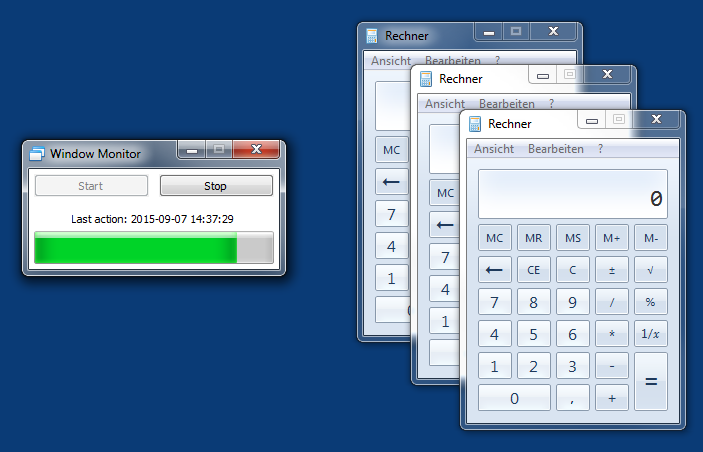
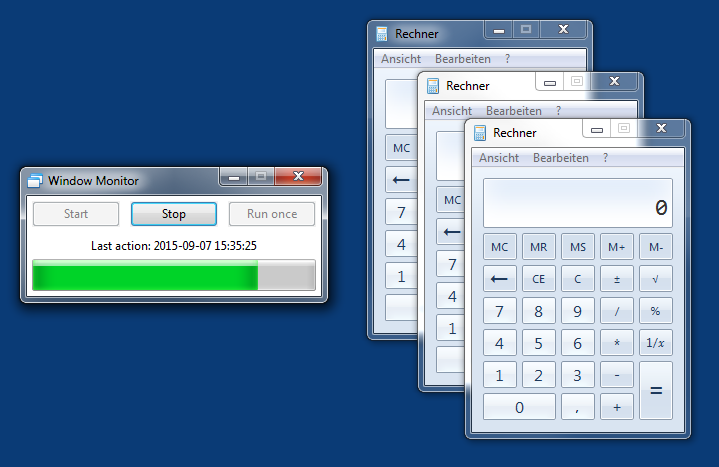
Added button to manually execute the process and window info script once

diff --git a/mainframe.py b/mainframe.py
@@ -38,10 +38,12 @@ class MainFrame(gui.MainFrame):
         # Bind the monitoring buttons.
         self.ButtonStartMonitoring.Bind(wx.EVT_BUTTON, self.start_monitoring)
         self.ButtonStopMonitoring.Bind(wx.EVT_BUTTON, self.stop_monitoring)
+        self.ButtonRunOnce.Bind(wx.EVT_BUTTON, self.run_once)
 
         # Enable/Disable monitoring buttons correctly.
         self.ButtonStartMonitoring.Enable(True)
         self.ButtonStopMonitoring.Enable(False)
+        self.ButtonRunOnce.Enable(True)
         self.DateTimeText.SetLabelText(u'Last action: -')
 
         # Determine if program is running compiled to *.exe/*.app or from Python interpreter.
@@ -64,6 +66,21 @@ class MainFrame(gui.MainFrame):
         self.gauge_max_value = 100
         self.Gauge.SetRange(self.gauge_max_value)
 
+    def run_once(self, event):
+        logger.debug('Running script once (event Id %i).' % event.GetId())
+
+        self.ButtonStartMonitoring.Enable(False)
+        self.ButtonStopMonitoring.Enable(False)
+        self.ButtonRunOnce.Enable(False)
+
+        self.refresh_timer()
+        process_watch_info = database.query_process_to_monitor()
+        self.take_action(process_watch_info)
+
+        self.ButtonStartMonitoring.Enable(True)
+        self.ButtonStopMonitoring.Enable(False)
+        self.ButtonRunOnce.Enable(True)
+
     def start_monitoring(self, event):
         logger.debug('Starting to do_monitoring thread/GUI (event Id %i).' % event.GetId())
 
@@ -73,6 +90,7 @@ class MainFrame(gui.MainFrame):
         # Enable/Disable monitoring buttons correctly.
         self.ButtonStartMonitoring.Enable(False)
         self.ButtonStopMonitoring.Enable(True)
+        self.ButtonRunOnce.Enable(False)
 
         # Start by doing what happens inside the loop otherwise, since the loop starts with a pause.
         self.refresh_timer()
@@ -122,6 +140,7 @@ class MainFrame(gui.MainFrame):
         # Disable all buttons. Only when the loop actually exits the start button is enabled again.
         self.ButtonStartMonitoring.Enable(False)
         self.ButtonStopMonitoring.Enable(False)
+        self.ButtonRunOnce.Enable(False)
 
         # Exit loop in thread on next run. This is the next possibility for a clean exit.
         self.continue_time_refresh = False
@@ -222,6 +241,7 @@ class MainFrame(gui.MainFrame):
         # Enable/Disable monitoring buttons correctly.
         self.ButtonStartMonitoring.Enable(True)
         self.ButtonStopMonitoring.Enable(False)
+        self.ButtonRunOnce.Enable(True)
 
         # Reset text and gauge.
         self.Gauge.SetValue(0)

diff --git a/gui.py b/gui.py
@@ -22,7 +22,7 @@ class MainFrame ( wx.Frame ):
 	def __init__( self, parent ):
 		wx.Frame.__init__ ( self, parent, id = wx.ID_ANY, title = _(u"Window Monitor"), pos = wx.DefaultPosition, size = wx.Size( -1,-1 ), style = wx.CAPTION|wx.CLOSE_BOX|wx.MINIMIZE_BOX|wx.STAY_ON_TOP|wx.SYSTEM_MENU|wx.TAB_TRAVERSAL )
 		
-		self.SetSizeHintsSz( wx.Size( 200,55 ), wx.DefaultSize )
+		self.SetSizeHintsSz( wx.Size( 300,55 ), wx.DefaultSize )
 		
 		MainSizer = wx.BoxSizer( wx.VERTICAL )
 		
@@ -40,6 +40,9 @@ class MainFrame ( wx.Frame ):
 		
 		self.ButtonStopMonitoring = wx.Button( self.MainPanel, wx.ID_ANY, _(u"Stop"), wx.DefaultPosition, wx.DefaultSize, 0 )
 		MonitoringSizer.Add( self.ButtonStopMonitoring, 1, wx.ALL, 5 )
+		
+		self.ButtonRunOnce = wx.Button( self.MainPanel, wx.ID_ANY, _(u"Run once"), wx.DefaultPosition, wx.DefaultSize, 0 )
+		MonitoringSizer.Add( self.ButtonRunOnce, 1, wx.ALL, 5 )
 		
 		
 		PanelSizer.Add( MonitoringSizer, 1, wx.EXPAND, 5 )
